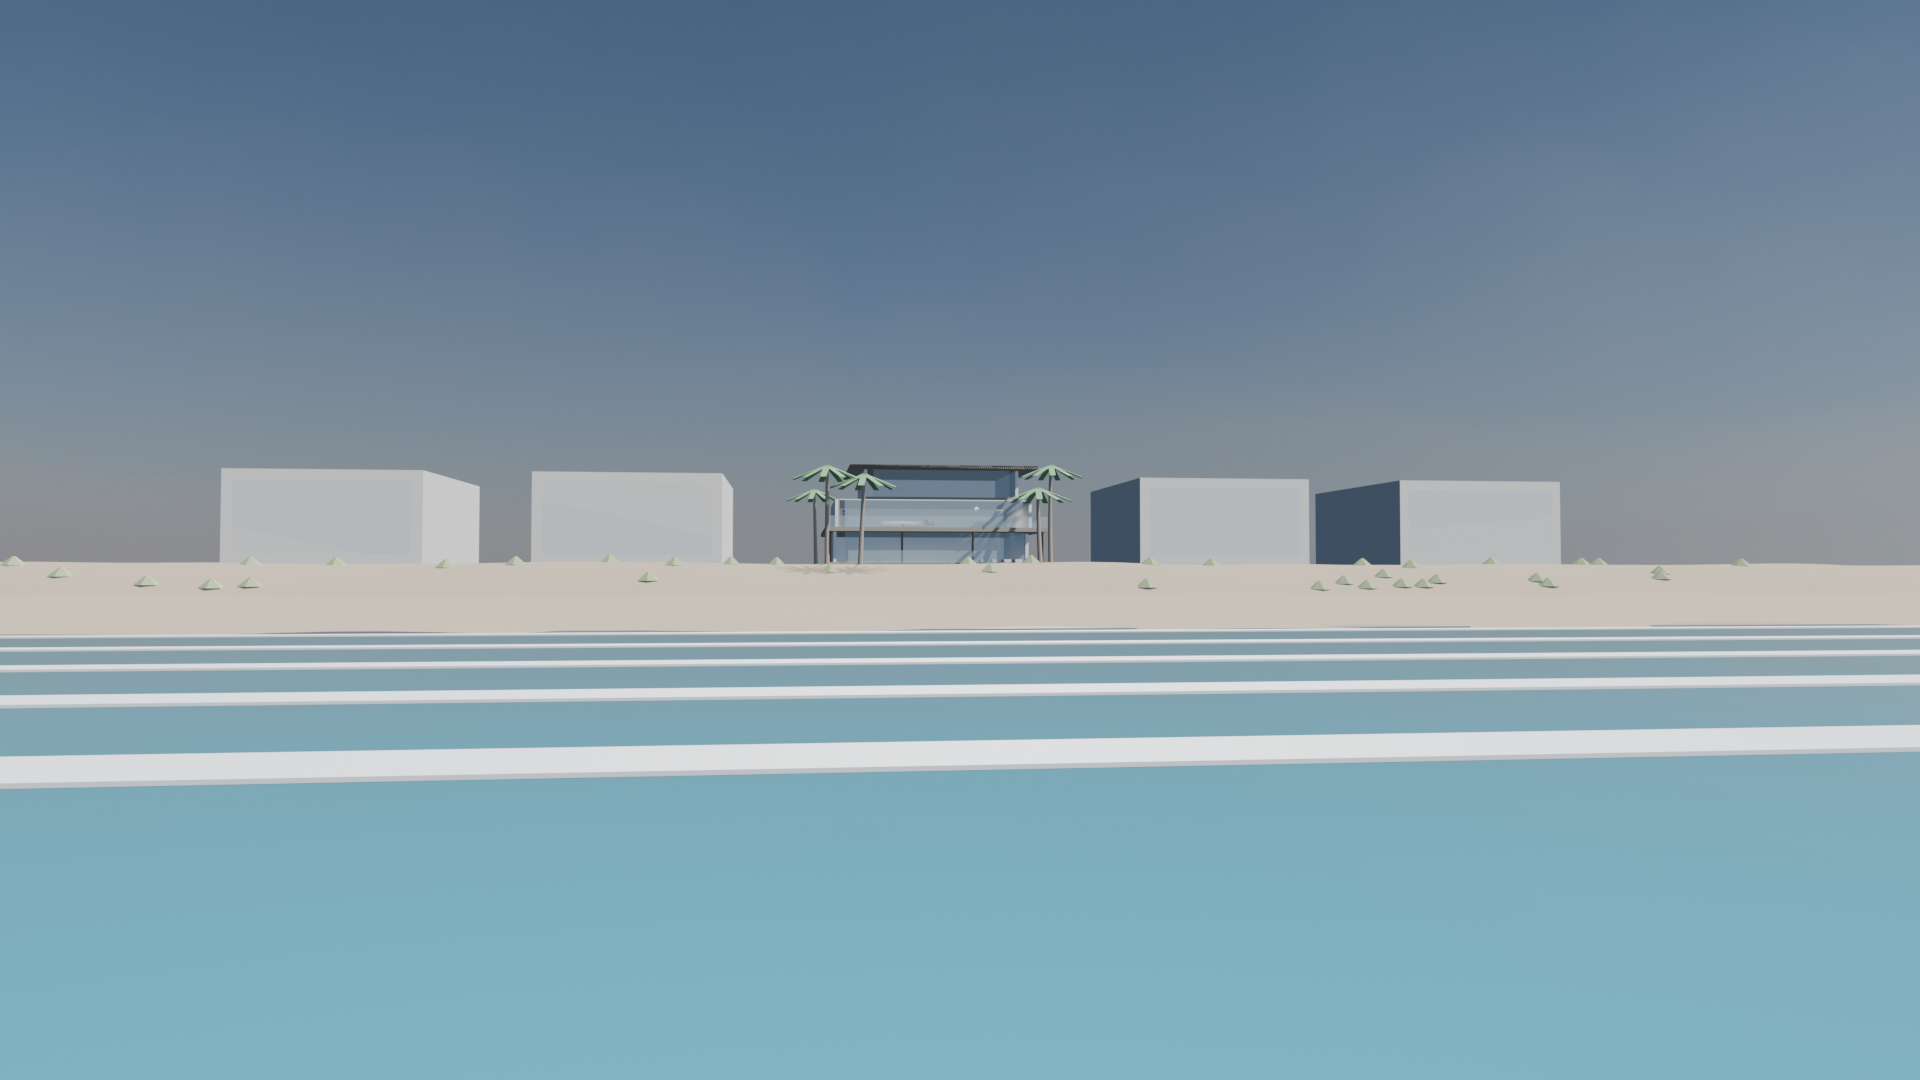
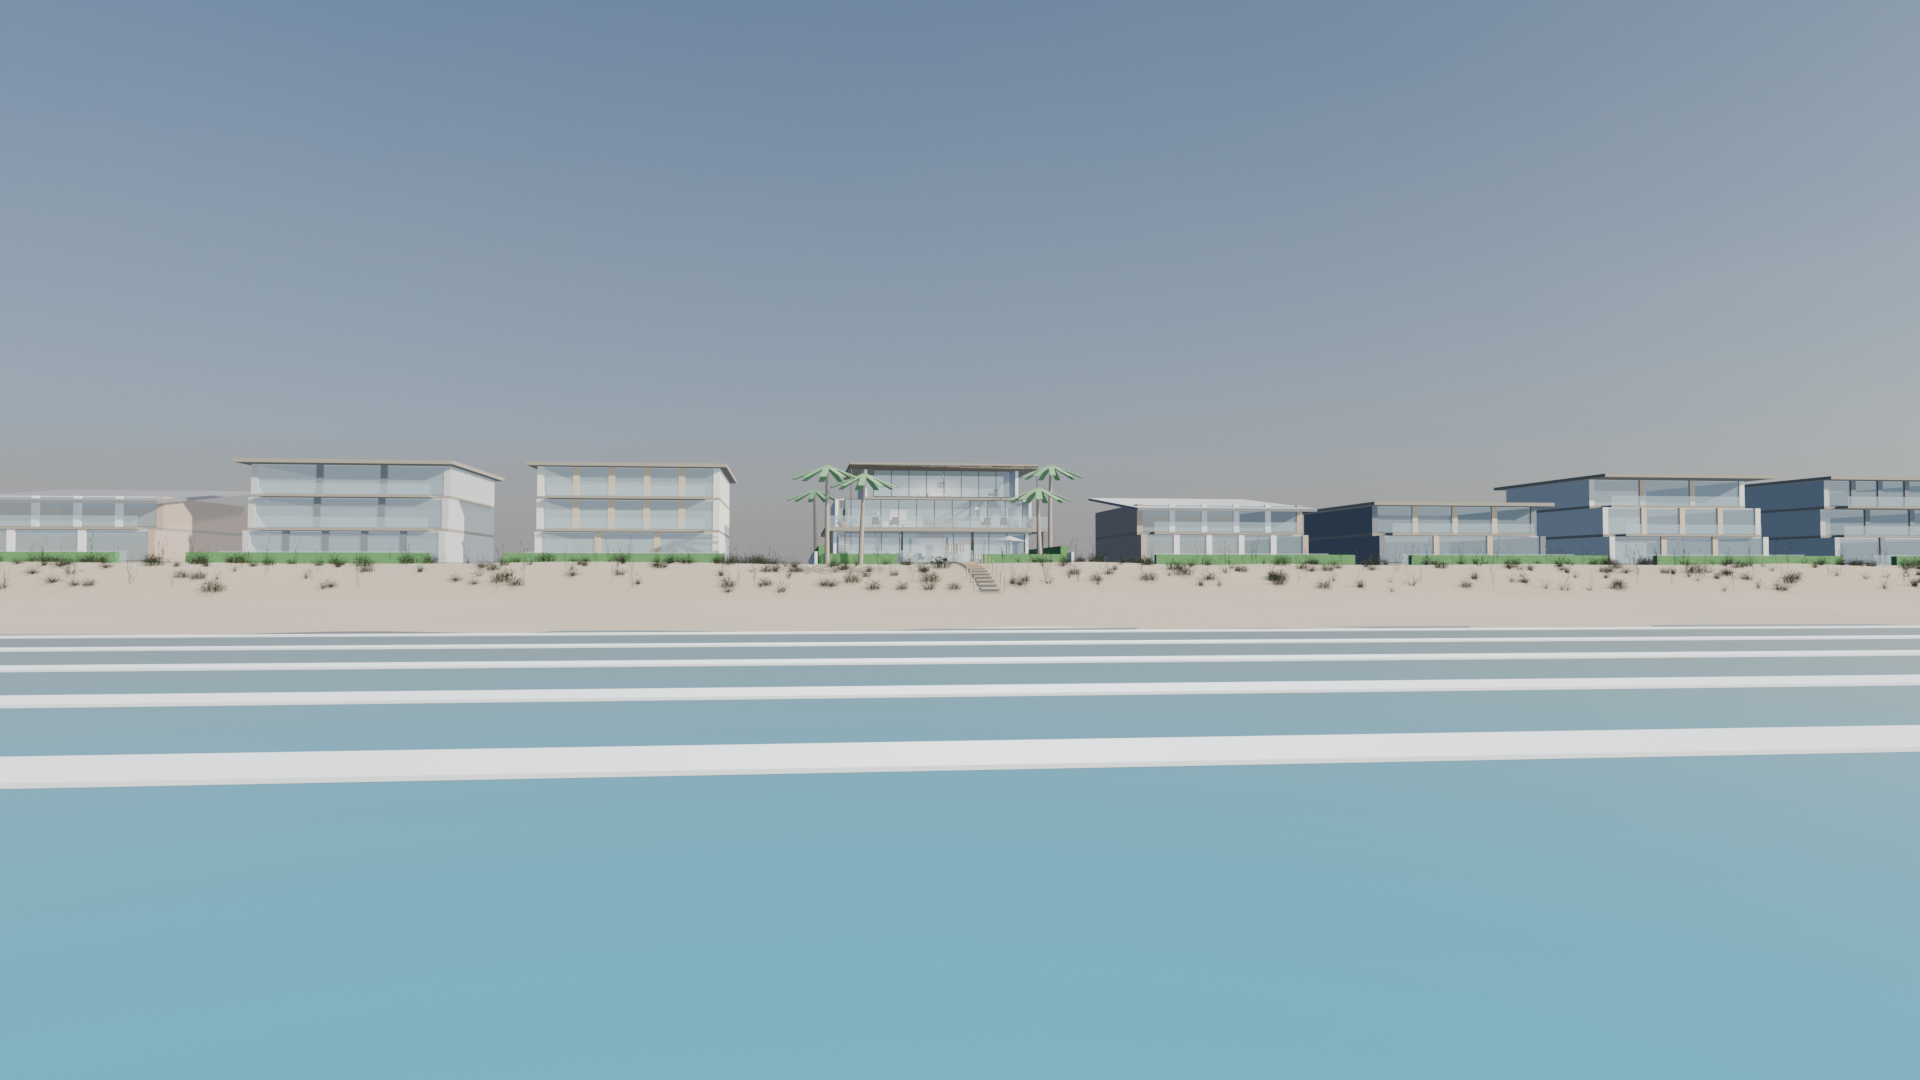
Blender: dense beach house (1,600 objects, walk-through interior), material-ID method, add-on research

diff --git a/wiki/concepts/blender-blockout-pipeline.md b/wiki/concepts/blender-blockout-pipeline.md
@@ -2,7 +2,7 @@
 type: concept
 tags: [ai-video, blender, higgsfield, magnific, pipeline]
 status: setup-complete
-updated: 2026-10-12
+updated: 2026-10-16
 ---
 # Blender block-out → AI video pipeline
 
@@ -29,3 +29,20 @@ Building the block-out is free. The generation step always gets a cost quote and
 
 ## Default route (2026-10-12, Hunter picked it after the shot-1 test)
 Blender guide frame → **GPT Image 2.5 Sunburst** (high, 2K, about 2.75 HF credits) for an **editorial** look → **Seedance 2.5 on Higgsfield** (omni_reference start frame, 96 HF credits per 8s at 1080p). Kling 2.5 on Magnific (725cr for the test) held the move but redesigned the pool late in the clip, so it is not the default.
+
+## Material-ID colour map (2026-10-16)
+Each material is rendered as one flat colour, then passed to the image model as a second reference with a key written in prose ("wherever Image 2 is red, the surface is timber…"). The model then knows which surface is which instead of guessing. Script: [material_id_pass.py](../../projects/blender-blockouts/scripts/material_id_pass.py) sorts every material by name into 17 categories: red timber, cyan glass, grey concrete, white render, black metal, blue pool, navy ocean, yellow sand, green grass, dark green plants, brown trunks, magenta fabric/furniture, orange stone, and so on. It uses Standard view transform and flat emission so the colours stay exact. Thin glass (fences, balustrades) is hidden from the map so it doesn't paint over what sits behind it.
+
+## Scene density matters
+Hunter's verdict on the first beach build (274 objects): too bare. The rebuild went to about 1,600 objects: dune-grass scatter, hedges, tropical garden beds, potted plants, outdoor dining, an umbrella, mullions, gutters and downpipes, a boardwalk, street lights, cars, eight detailed neighbour houses, and a full walk-through interior (stairs cut through the slabs, a garage, laundry, powder room, and a master suite with ensuite and robe). An empty block-out gives the AI room to invent; a dense one leaves it nothing to make up.
+
+## Add-ons worth installing (research, 2026-10-16, not yet verified live)
+Ranked for a Python/MCP-driven pipeline:
+1. Poly Haven (free, already wired in)
+2. BlenderKit (free tier / about $9 a month)
+3. Camera Shakify (free, real gimbal feel)
+4. Archipack (free, parametric walls, windows and roofs)
+5. Botaniq (about $49+, landscaping)
+6. Photographer 5 (about $30)
+
+Skip Geo-Scatter, Kitbash, Fab and Fluent for now: they're weak to drive from a script. Spend on silhouette, vegetation shape and camera motion, because the AI repaints the surfaces anyway.

diff --git a/wiki/log.md b/wiki/log.md
@@ -1209,3 +1209,6 @@ Header gated behind the homepage stage; ring label The gym; site-wide --inset so
 ## [2026-10-16] query | ZED 86 Ormeu St full staging
 
 Zed picked Smoked Oak Suite; 15 more interiors staged (2,700cr, job total 6,480cr). No-additions rule held. Logged on [[zed-style]].
+
+## [2026-10-16] query | Blender: material-ID maps, denser scenes, add-on research
+Added the material-ID colour-map method, the scene-density lesson and the ranked add-on list to [[blender-blockout-pipeline]].
